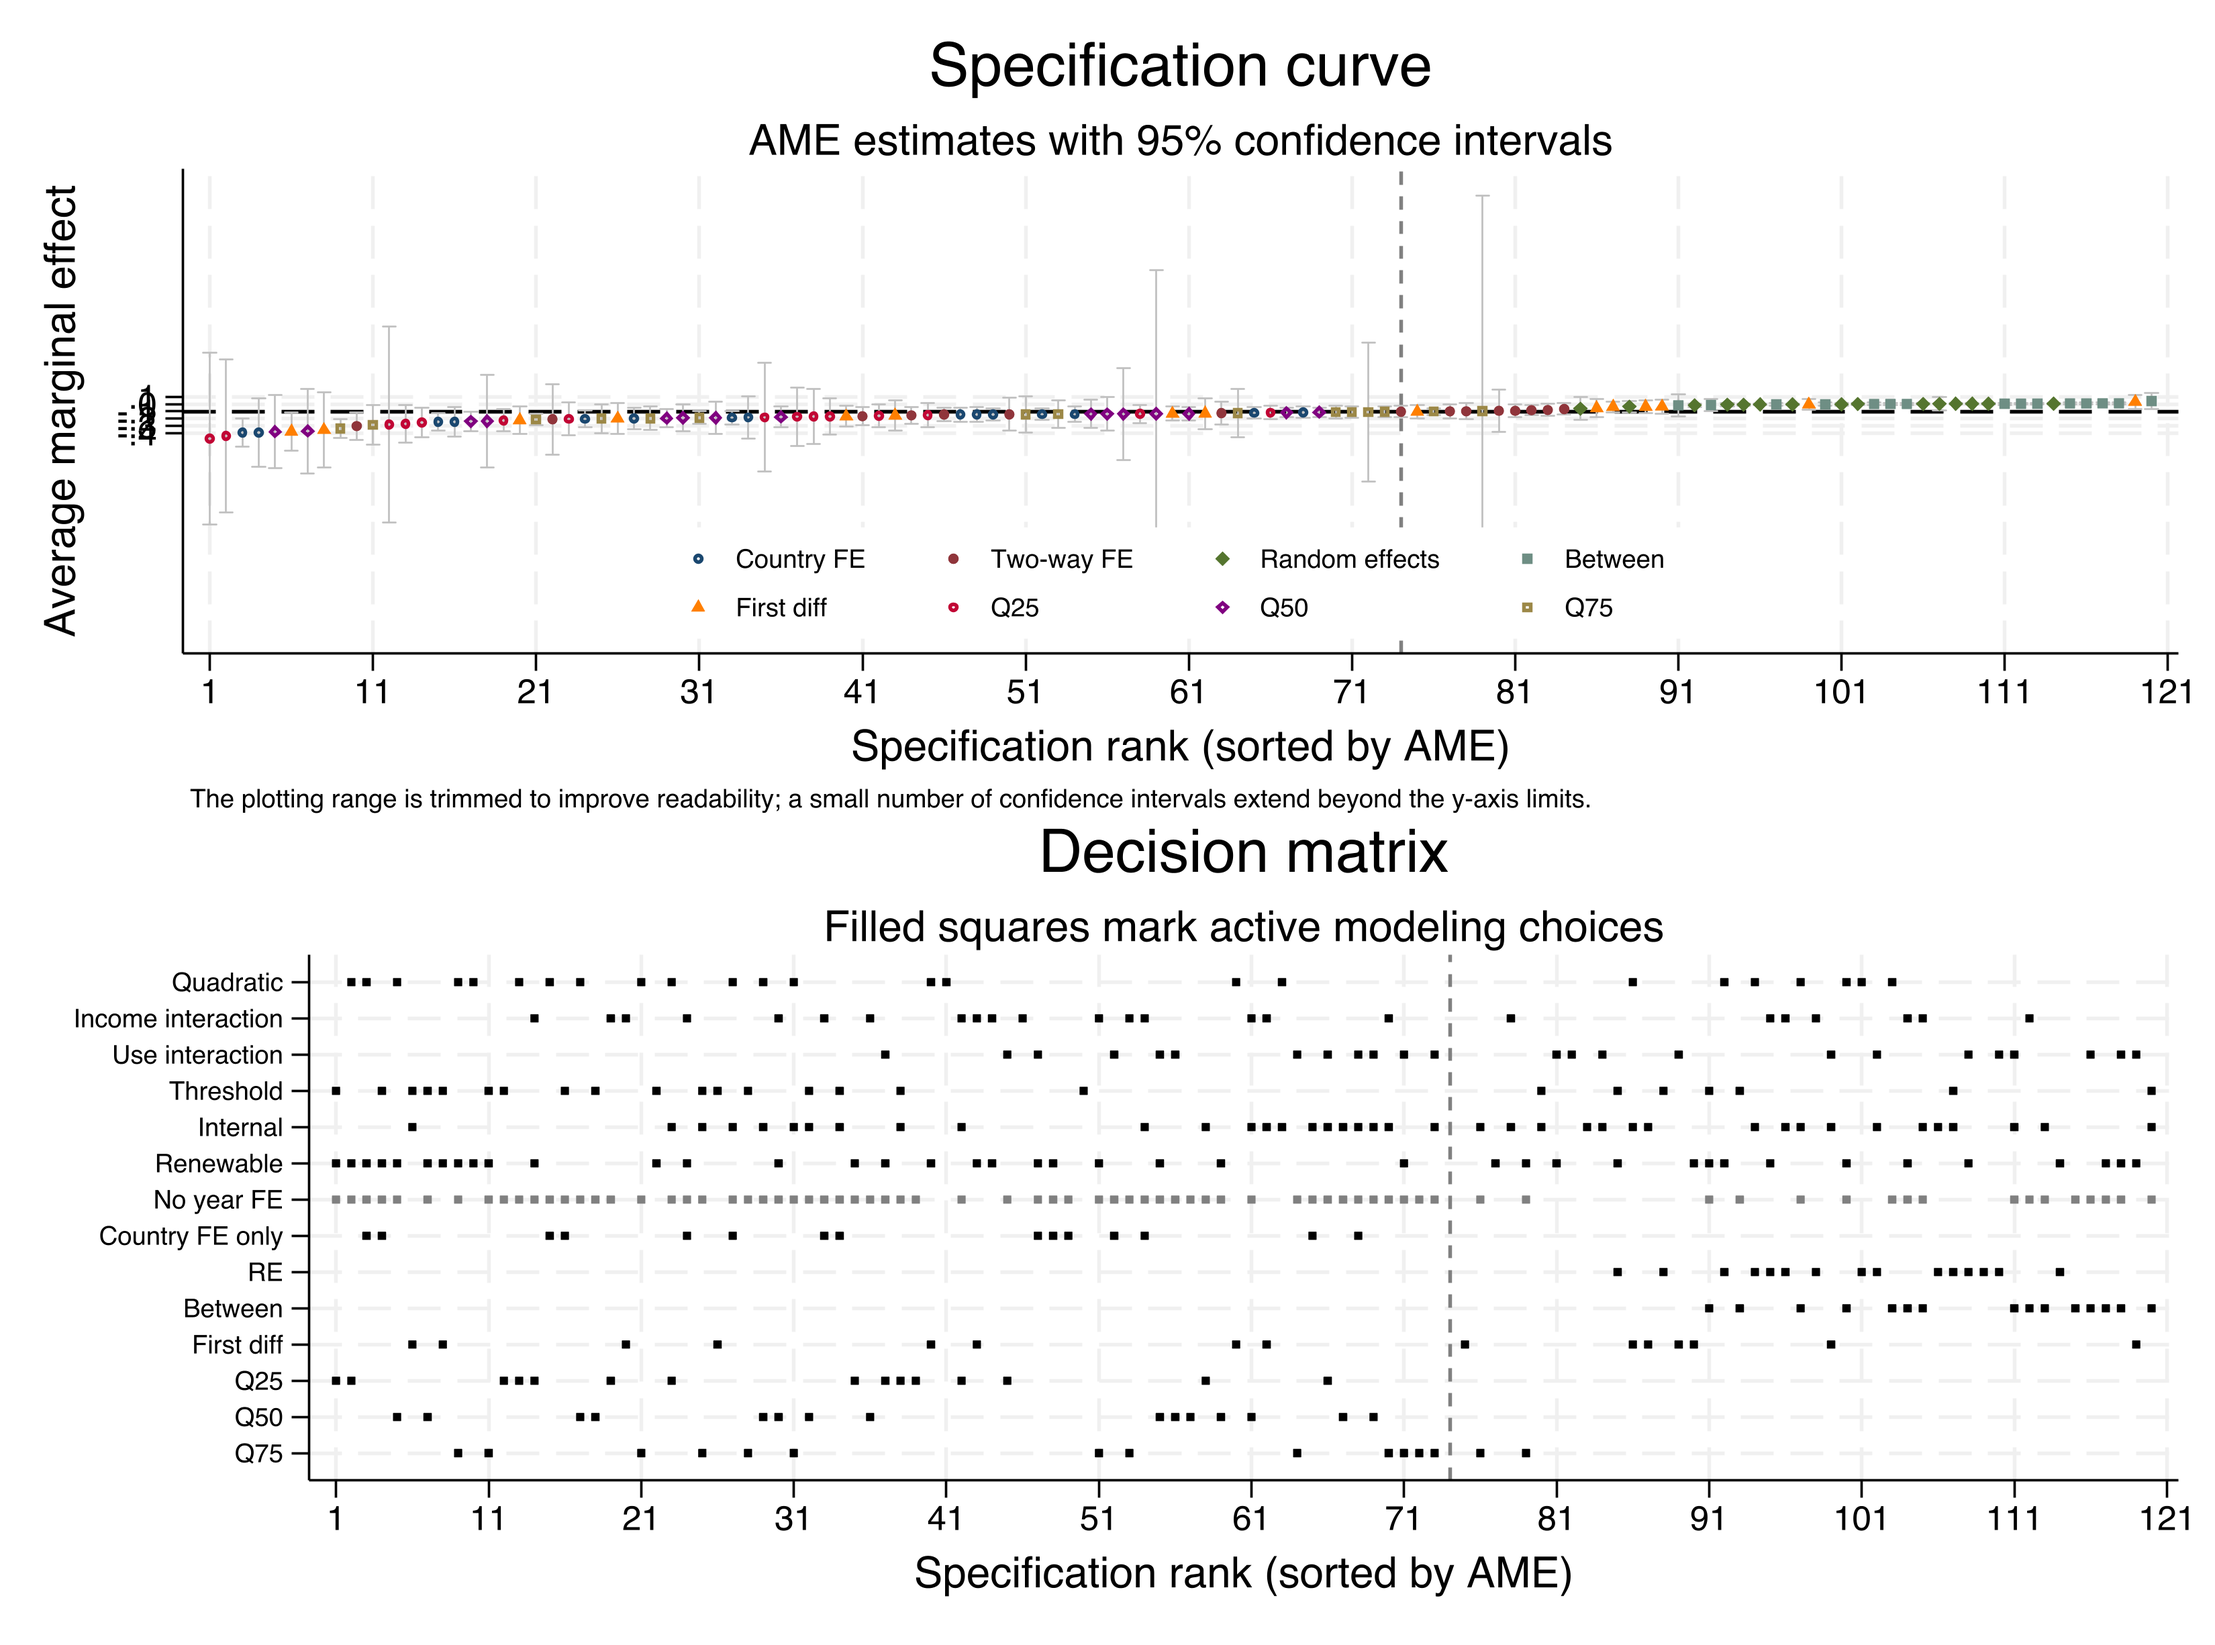
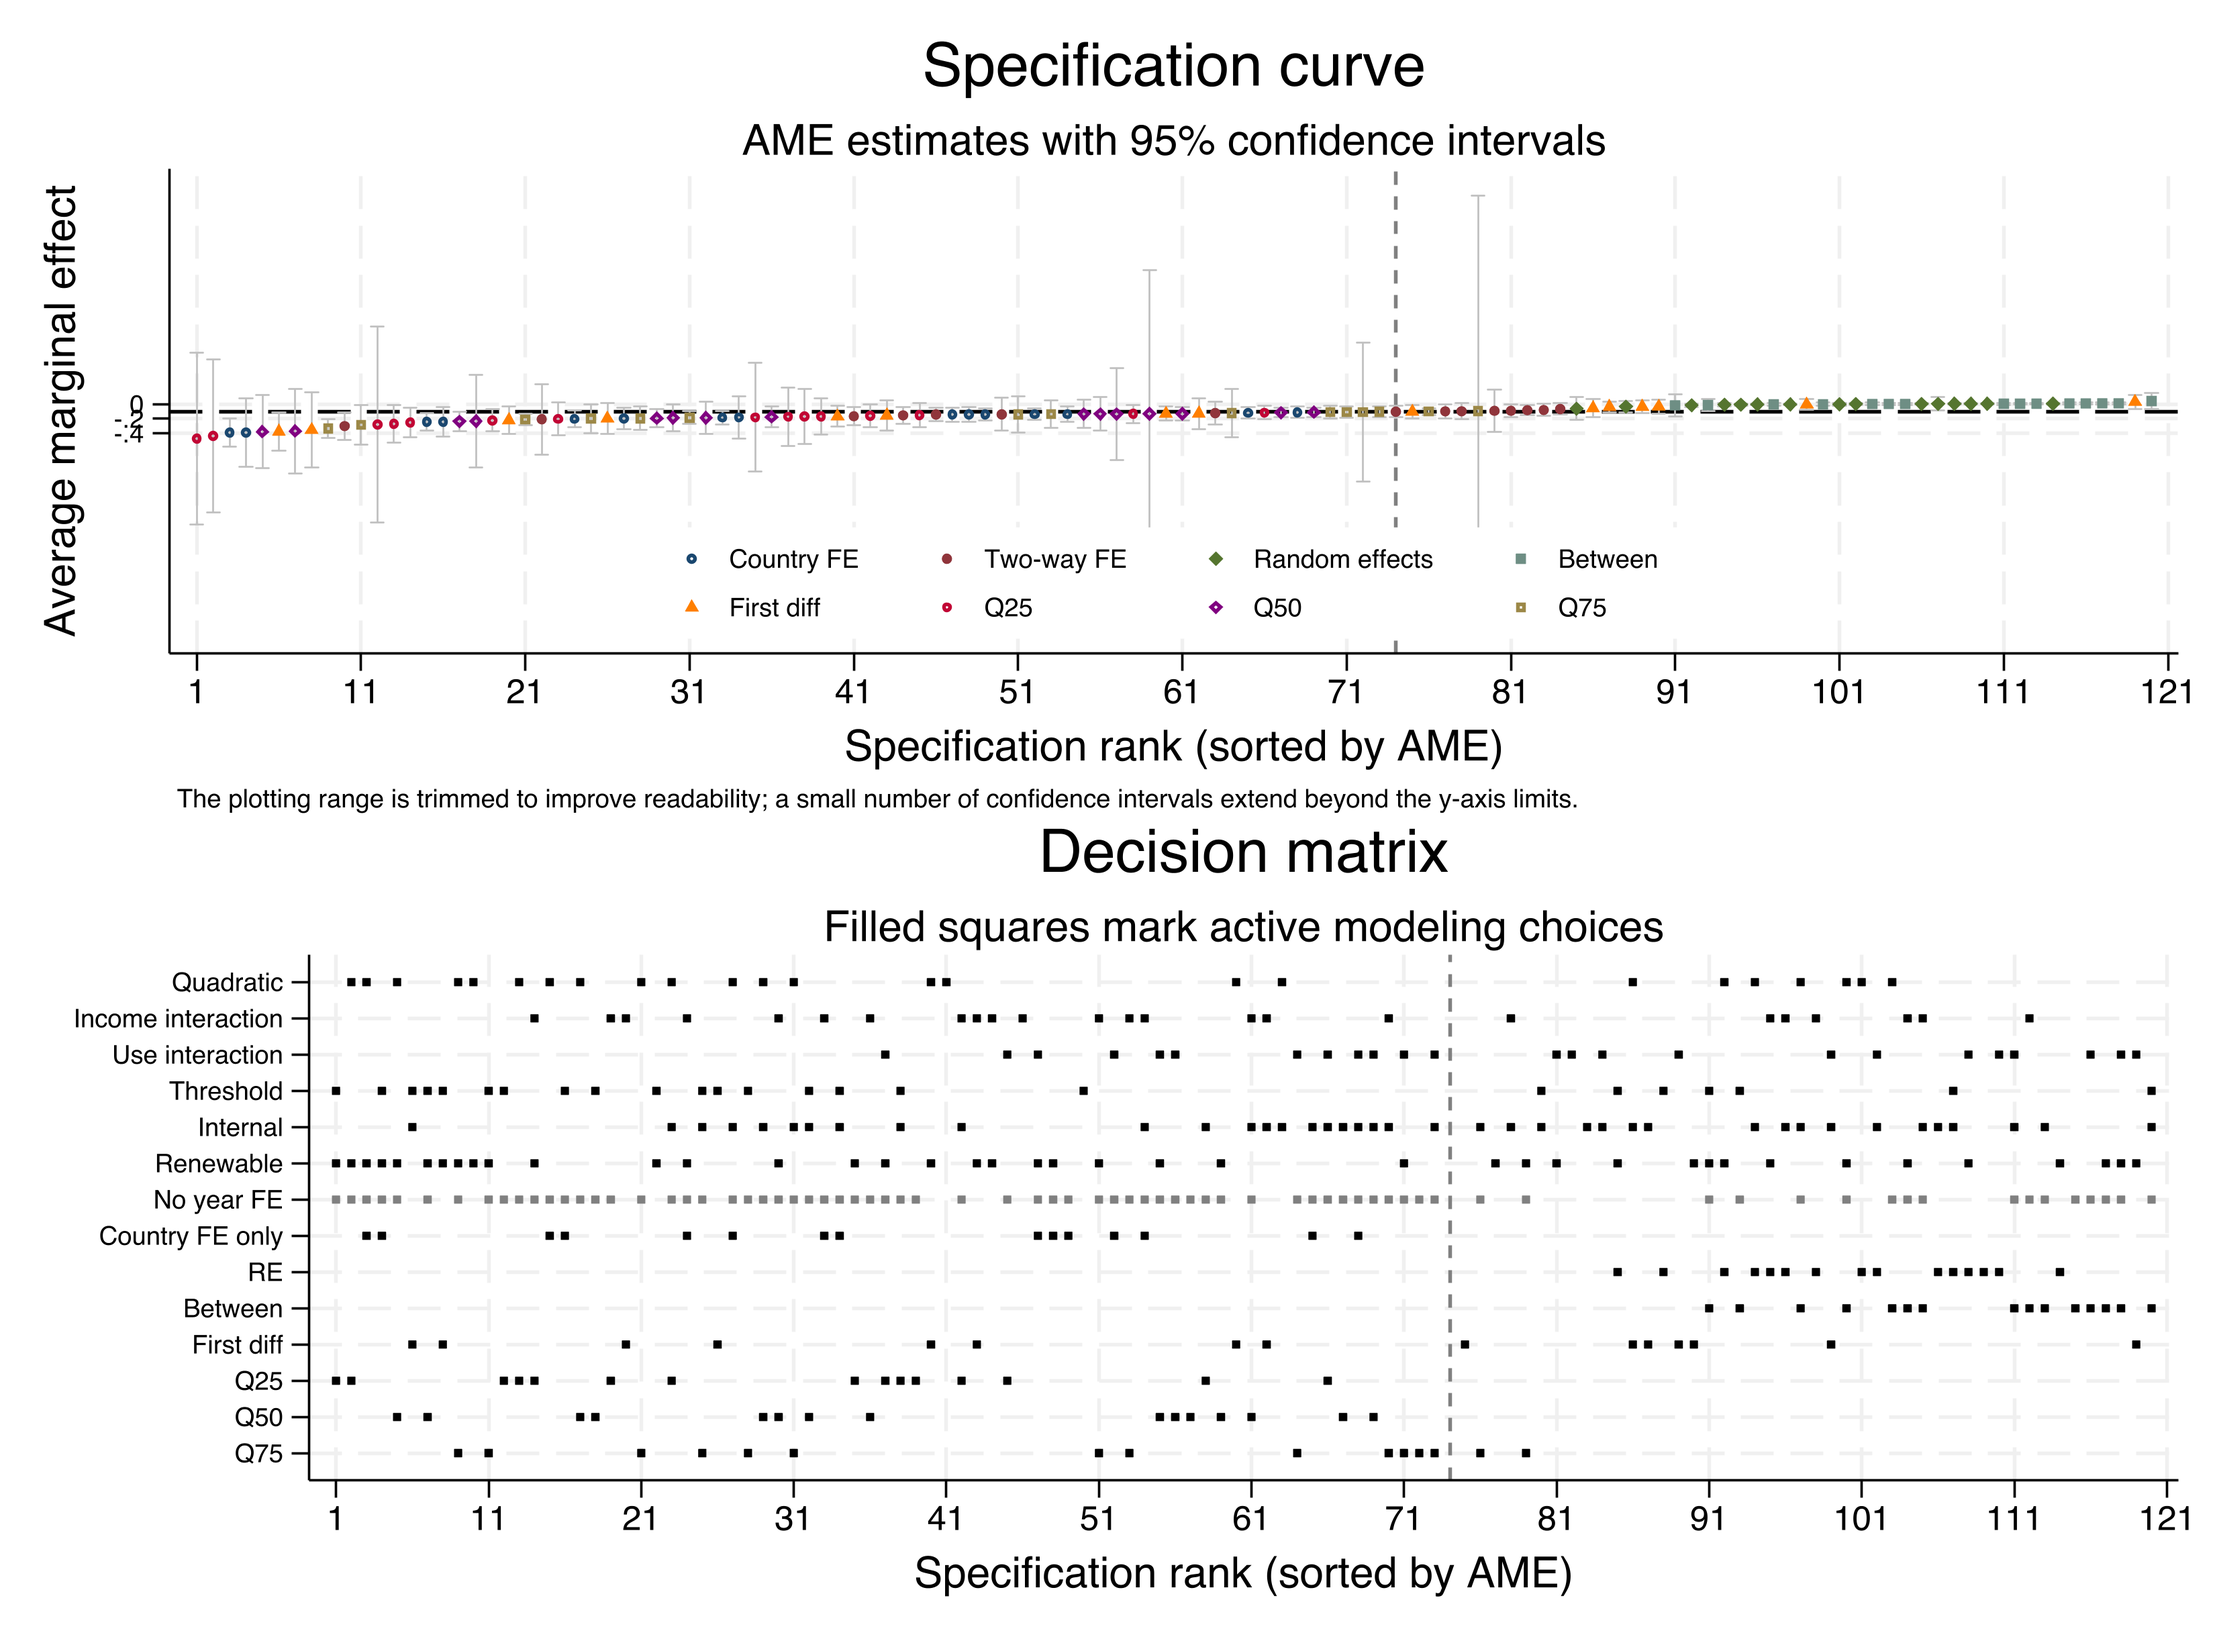
Remove body decision matrix and retune spec curve

diff --git a/Reproducibility Package/Extension/paper/term_paper.tex b/Reproducibility Package/Extension/paper/term_paper.tex
@@ -167,8 +167,8 @@ Figure~\ref{fig:histogram} shows the heavy negative mass concentrated between ro
 
 \begin{figure}[H]
 \centering
-\includegraphics[width=\textwidth]{../figures/specification_curve.png}
-\caption{Ordered specification curve with 95\% confidence intervals, color-coded by estimator. The dashed line marks the replicated baseline ($\BaselineBeta$). The companion decision matrix indicates active modeling choices for each specification.}
+\includegraphics[width=\textwidth]{../figures/fig_spec_curve.png}
+\caption{Ordered specification curve with 95\% confidence intervals, color-coded by estimator. The dashed line marks the replicated baseline ($\BaselineBeta$).}
 \label{fig:spec_curve}
 \end{figure}
 
